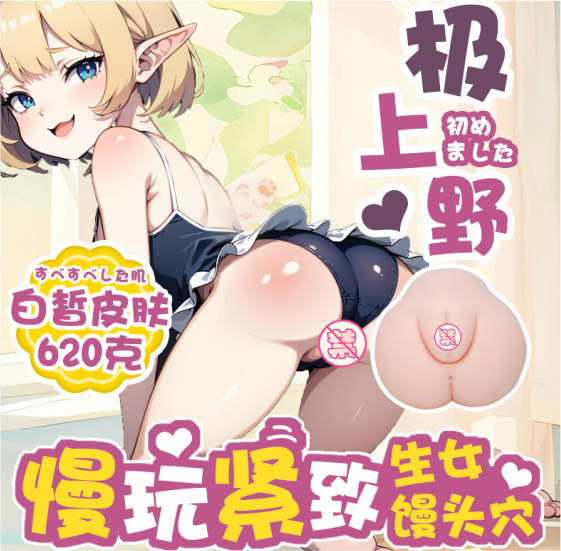
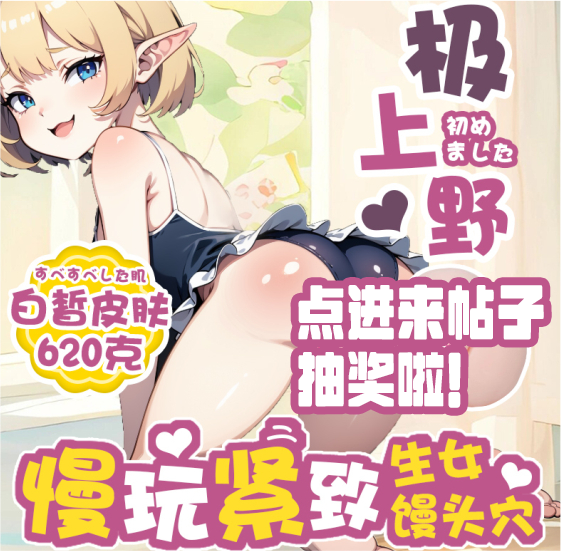
save

Changed region(s): [[0.5152, 0.4936, 1.0, 0.7713]]

diff --git a/pages/human.tsx b/pages/human.tsx
@@ -11,7 +11,7 @@ import {
   Heading,
 } from '@chakra-ui/react'
 import config from '@/config'
-import { adUrl } from '@/const'
+import { ad2Url, adUrl } from '@/const'
 
 export async function getStaticProps() {
   // Call an external API endpoint to get posts
@@ -80,12 +80,12 @@ const CaptchaVerification = ({ sitekey }: { sitekey: string }) => {
         <a href={adUrl} target='_blank' rel='noreferrer'>
           <Box borderWidth='1px' borderRadius='lg' padding={4} marginY={4}>
             <Text fontSize='md'>
-              极上野萝莉飞机杯, 萝莉的极致体验, 领取优惠券购买
+              极上野萝莉飞机杯, 萝莉的极致体验, 点击此处购买, 点击下图抽奖
             </Text>
           </Box>
         </a>
         <Box>
-          <a href={adUrl} target='_blank' rel='noopener noreferrer'>
+          <a href={ad2Url} target='_blank' rel='noopener noreferrer'>
             <Image
               src='/assets/ad-vagina.jpg'
               alt='Advertisement'

diff --git a/components/legacy/Readme/Feedback.tsx b/components/legacy/Readme/Feedback.tsx
@@ -2,7 +2,7 @@ import t from '@lang'
 import { Text, Link } from '@chakra-ui/react'
 import useGlobalTheme from '@/utils/persist/theme'
 import { AccordionItem } from '@nextui-org/react'
-import { adUrl } from '@/const'
+import { ad2Url, adUrl } from '@/const'
 
 export const Feedback = ({ lang }: { lang: string }) => {
   const color = useGlobalTheme((s) => s.color)
@@ -53,7 +53,10 @@ export const Feedback = ({ lang }: { lang: string }) => {
             {' '}
             优惠券{' '}
           </Link>
-          购买
+          购买,{' '}
+          <Link target='_blank' rel='noreferrer' href={ad2Url}>
+            点击抽奖
+          </Link>
         </span>
         。
       </Text>

diff --git a/components/legacy/LegacyContent.tsx b/components/legacy/LegacyContent.tsx
@@ -58,12 +58,6 @@ const LegacyContent = (props: DefaultInfoProp) => {
               https://t.me/upsetgal
             </Link>
           </Text>
-          <Text size='sm'>
-            加入自建matrix聊天室直接在线聊天(注册需要梯子, 之后不需要){' '}
-            <Link href={'https://chat.galgame.dev'} target='_blank'>
-              https://chat.galgame.dev
-            </Link>
-          </Text>
           <Text size='sm'>qq群暂不开放</Text>
         </Box>
       ),

diff --git a/const/index.ts b/const/index.ts
@@ -40,3 +40,5 @@ export const mobgurl =
 
 export const adUrl =
   'https://pages.tmall.com/wow/a/act/tmall/dailygroup/16355/16802/wupr?wh_pid=daily-465056&disableNav=YES&status_bar_transparent=true&sellerId=1731640362&activityId=0d5aa047aef44254b970cae5535b2df0&toolName=itemCoupon'
+
+export const ad2Url = 'https://galgame.dev/topic/1933'
